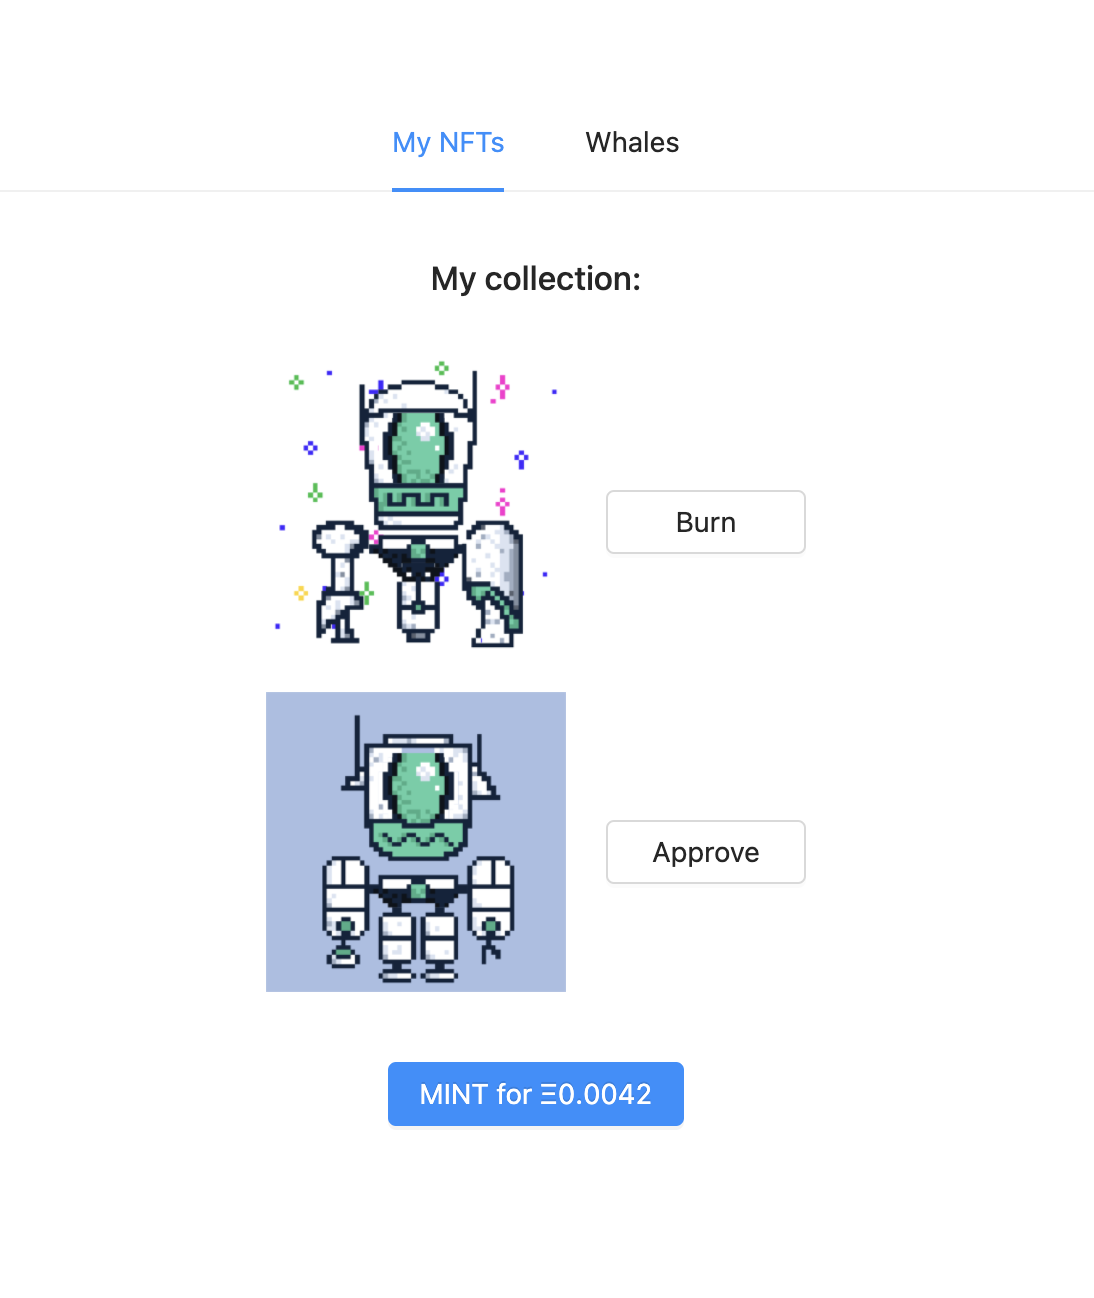
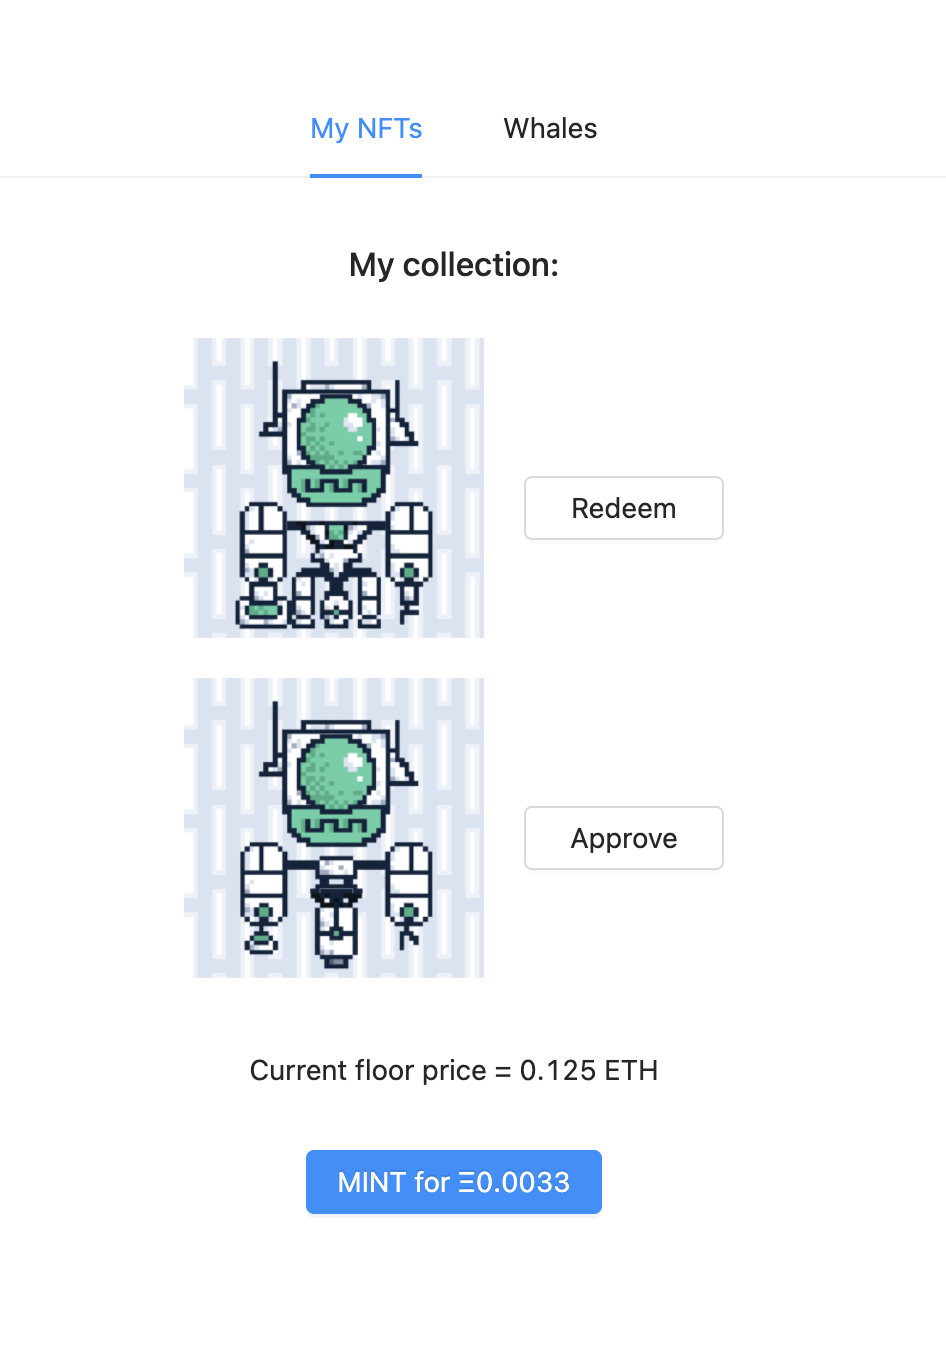
feat: change screen in readme

diff --git a/packages/react-app/src/contracts/MoonshotBot.abi.js b/packages/react-app/src/contracts/MoonshotBot.abi.js
@@ -120,19 +120,6 @@ module.exports = [
     "inputs": [
       {
         "internalType": "uint256",
-        "name": "_id",
-        "type": "uint256"
-      }
-    ],
-    "name": "burn",
-    "outputs": [],
-    "stateMutability": "nonpayable",
-    "type": "function"
-  },
-  {
-    "inputs": [
-      {
-        "internalType": "uint256",
         "name": "tokenId",
         "type": "uint256"
       }
@@ -241,6 +228,19 @@ module.exports = [
       }
     ],
     "stateMutability": "view",
+    "type": "function"
+  },
+  {
+    "inputs": [
+      {
+        "internalType": "uint256",
+        "name": "_id",
+        "type": "uint256"
+      }
+    ],
+    "name": "redeem",
+    "outputs": [],
+    "stateMutability": "nonpayable",
     "type": "function"
   },
   {

diff --git a/packages/react-app/src/contracts/MoonshotBot.address.js b/packages/react-app/src/contracts/MoonshotBot.address.js
@@ -1,1 +1,1 @@
-module.exports = "0xc6e7DF5E7b4f2A278906862b61205850344D4e7d";
+module.exports = "0x67d269191c92Caf3cD7723F116c85e6E9bf55933";
